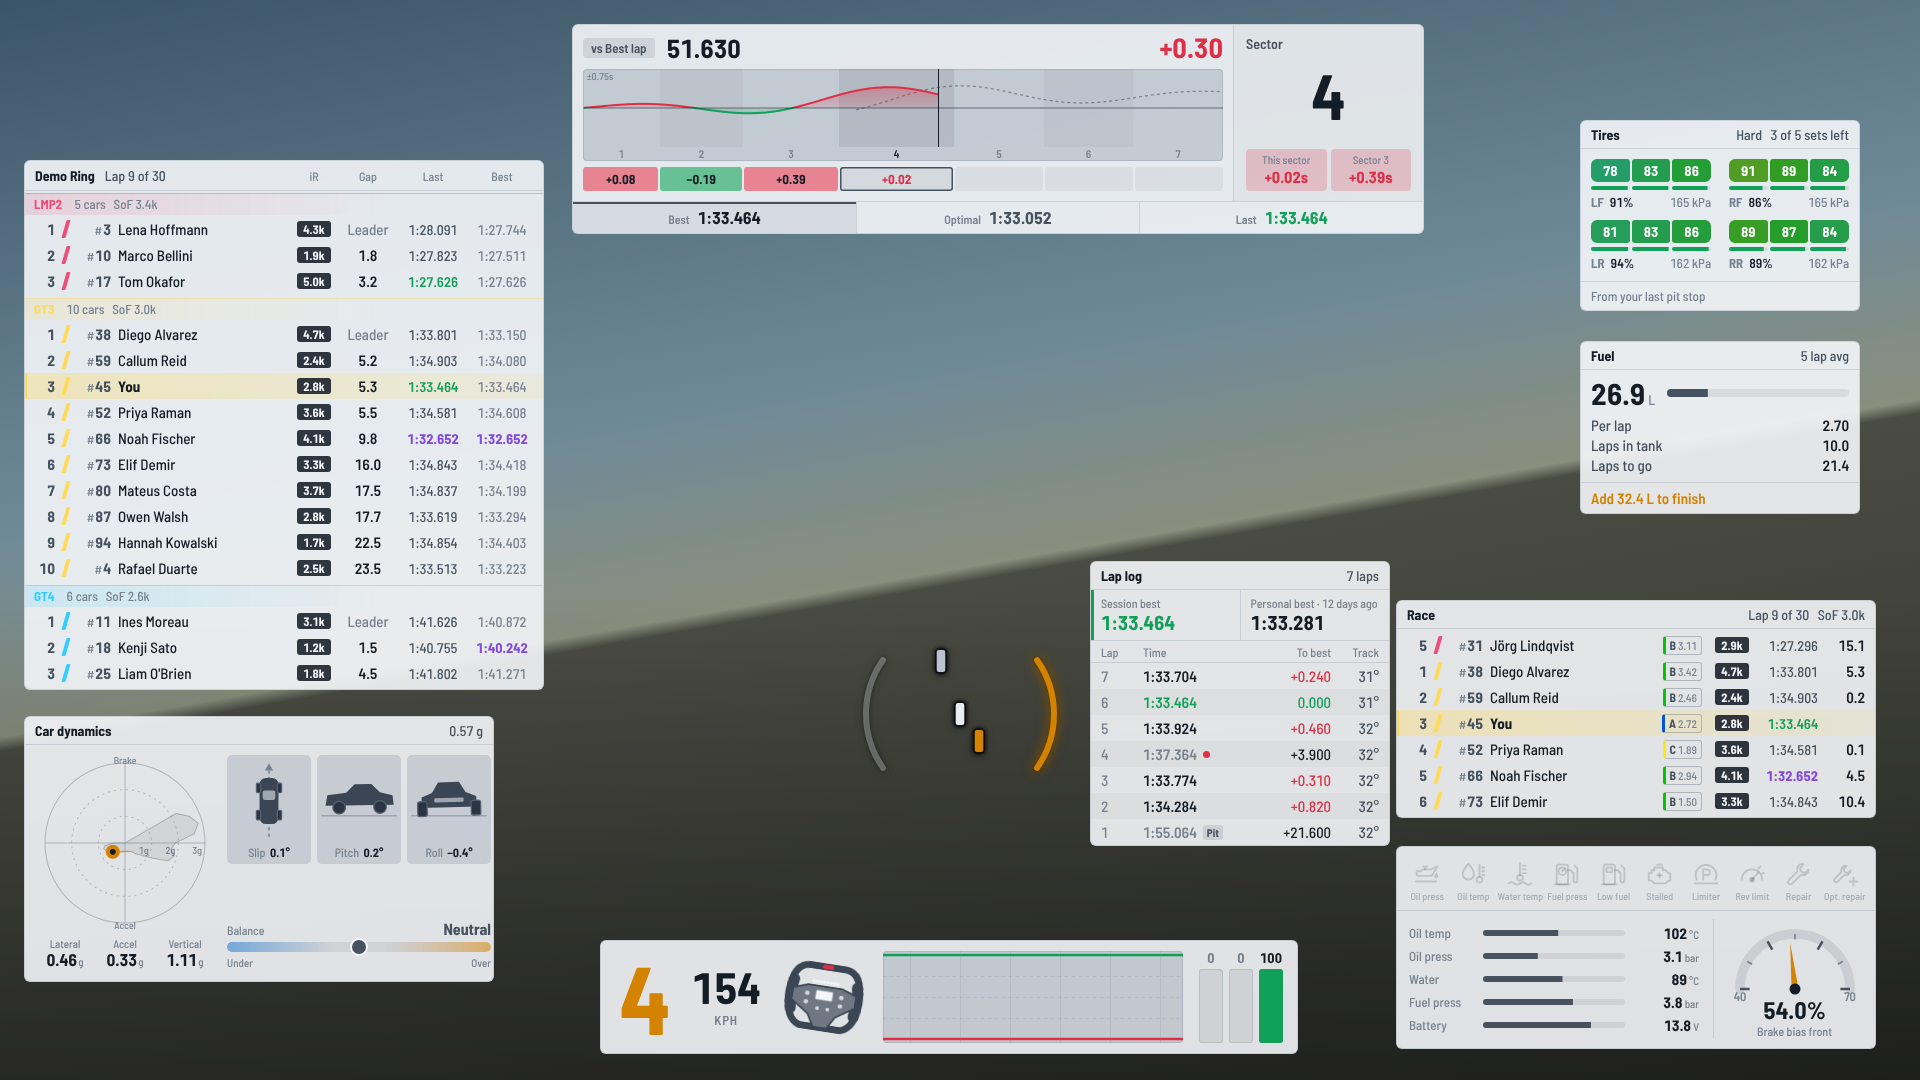
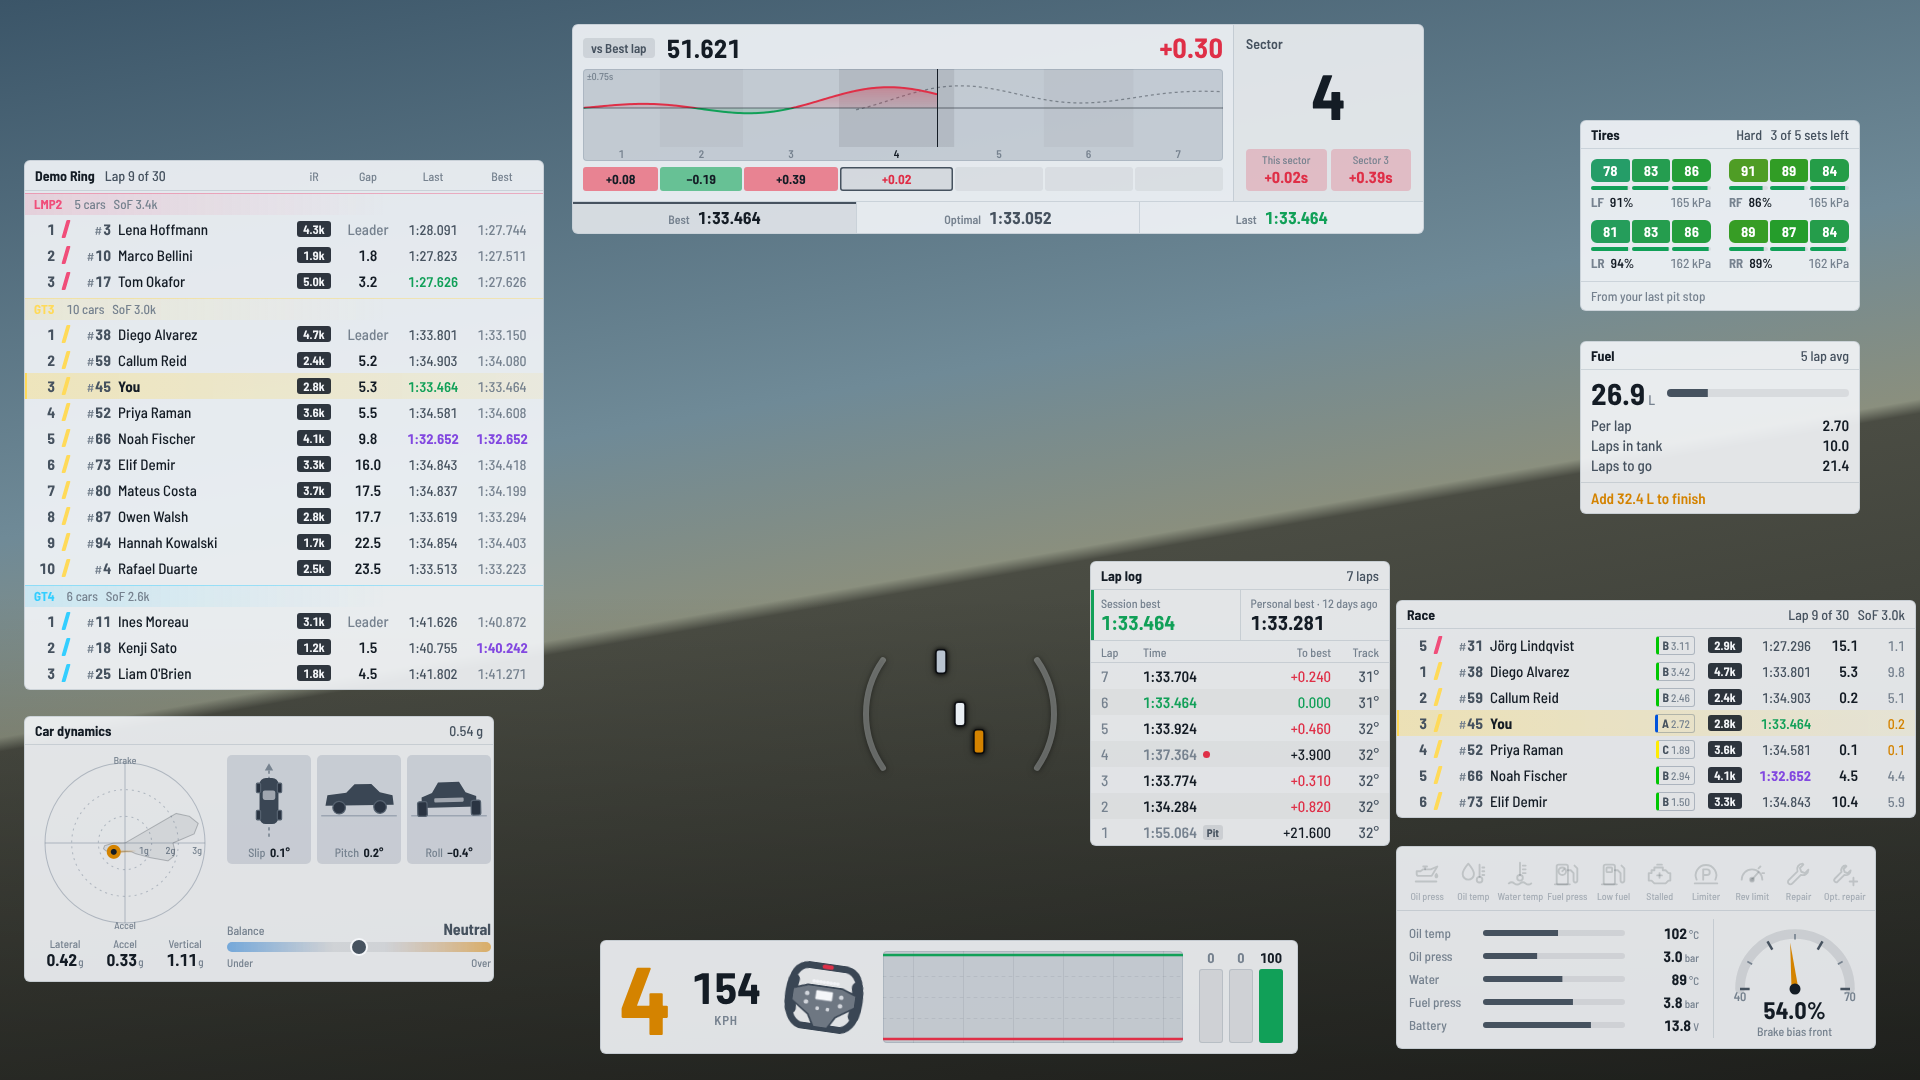
Relative: show each car's gap to the car ahead on track
A new last column gives every row's gap to the row above it (yours
included), worked out from the full list so the top visible row gets one
too. Under a second is amber, to pick out the fights around you. On by
default with a "Show gap to the car ahead" option; the panel grows 40 px
when it's on. README text and pictures updated.

Claude-Session: https://claude.ai/code/session_013hzfFXxra7Gh1adzFYjA4b

Changed region(s): [[0.8438, 0.55, 1.0, 0.7639], [0.5312, 0.6111, 0.5625, 0.7028], [0.375, 0.0306, 0.4062, 0.0611]]

diff --git a/src/widgets/Relative.tsx b/src/widgets/Relative.tsx
@@ -25,14 +25,20 @@ export function Relative({ config }: { config: WidgetConfig }) {
   const showLic = opt(config, "showLicense", true);
   const showLast = opt(config, "showLastLap", true);
   const showPit = opt(config, "showPit", true);
+  const showInterval = opt(config, "showInterval", true);
 
   const rows = (field?.relative ?? []).filter((r) => showPit || !r.onPitRoad || r.isPlayer);
   const me = rows.findIndex((r) => r.isPlayer);
+  // Each car's gap to the car directly in front of it on track (the row
+  // above), from the full list so the top visible row gets one too. Gaps are
+  // positive ahead of you, so the row above always has the bigger one.
+  const intervals = rows.map((r, i) => (i > 0 ? rows[i - 1].gap - r.gap : null));
 
   // Fixed slot count so the widget never changes height.
-  const slots: (RelativeRow | null)[] = [];
+  const slots: ({ r: RelativeRow; interval: number | null } | null)[] = [];
   for (let k = -ahead; k <= behind; k++) {
-    slots.push(me >= 0 ? rows[me + k] ?? null : null);
+    const i = me + k;
+    slots.push(me >= 0 && rows[i] ? { r: rows[i], interval: intervals[i] } : null);
   }
 
   const sof = opt(config, "showSoF", true) ? field?.clock.strengthOfField : null;
@@ -42,6 +48,7 @@ export function Relative({ config }: { config: WidgetConfig }) {
     showIR && "40px",
     showLast && "62px",
     "40px",
+    showInterval && "40px",
   ]
     .filter(Boolean)
     .join(" ");
@@ -56,9 +63,10 @@ export function Relative({ config }: { config: WidgetConfig }) {
         <Empty>Relative appears once you're in the car.</Empty>
       ) : (
         <div className="rows" style={{ "--cols": cols } as React.CSSProperties}>
-          {slots.map((r, k) =>
-            r ? (
-              <Row key={r.carIdx} r={r} showIR={showIR} showLic={showLic} showLast={showLast} multiclass={multiclass} />
+          {slots.map((s, k) =>
+            s ? (
+              <Row key={s.r.carIdx} r={s.r} interval={showInterval ? s.interval : undefined}
+                showIR={showIR} showLic={showLic} showLast={showLast} multiclass={multiclass} />
             ) : (
               <div key={`e${k}`} className="row row-empty" />
             ),
@@ -69,8 +77,14 @@ export function Relative({ config }: { config: WidgetConfig }) {
   );
 }
 
-function Row({ r, showIR, showLic, showLast, multiclass }: {
-  r: RelativeRow; showIR: boolean; showLic: boolean; showLast: boolean; multiclass: boolean;
+/** Within this many seconds of the car ahead counts as a close fight. */
+const CLOSE_S = 1.0;
+
+function Row({ r, interval, showIR, showLic, showLast, multiclass }: {
+  r: RelativeRow;
+  /** Seconds to the car in front; null for the front row; undefined when the column is off. */
+  interval: number | null | undefined;
+  showIR: boolean; showLic: boolean; showLast: boolean; multiclass: boolean;
 }) {
   const lic = license(r.license);
   const status = r.isPlayer ? "is-player" : r.lapStatus > 0 ? "is-ahead-lap" : r.lapStatus < 0 ? "is-behind-lap" : "";
@@ -92,6 +106,14 @@ function Row({ r, showIR, showLic, showLast, multiclass }: {
       {showIR && <IRatingBadge value={r.irating} />}
       {showLast && <LastLap time={r.lastLap} flag={r.lastFlag} />}
       <span className="gap">{r.isPlayer ? "" : gap(r.gap)}</span>
+      {interval !== undefined && (
+        <span
+          className={`interval ${interval != null && interval < CLOSE_S ? "is-close" : ""}`}
+          title={interval == null ? undefined : `${interval.toFixed(2)} s to the car ahead`}
+        >
+          {interval == null ? "" : gap(interval)}
+        </span>
+      )}
     </div>
   );
 }

diff --git a/src/lib/config.ts b/src/lib/config.ts
@@ -76,6 +76,7 @@ export const WIDGETS: WidgetMeta[] = [
       { key: "showLicense", label: "Show license", type: "toggle", default: true },
       { key: "showLastLap", label: "Show last lap", type: "toggle", default: true, help: "Purple for the fastest lap in class, green for a personal best" },
       { key: "showPit", label: "Show cars in the pits", type: "toggle", default: true },
+      { key: "showInterval", label: "Show gap to the car ahead", type: "toggle", default: true, help: "Each car's gap to the one in front of it on track, amber when under a second" },
       { key: "showSoF", label: "Show strength of field", type: "toggle", default: true, help: "For your class, in the header" },
     ],
   },

diff --git a/src/styles/overlay.css b/src/styles/overlay.css
@@ -538,6 +538,18 @@
 .relative {
   width: 480px;
 }
+/* The extra column widens the panel rather than squeezing the names. */
+.relative:has(.interval) {
+  width: 520px;
+}
+.interval {
+  text-align: right;
+  font-size: 14px;
+  color: var(--ink-3);
+}
+.interval.is-close {
+  color: var(--attention);
+}
 .relative .row,
 .standings .row {
   grid-template-columns: var(--cols);

diff --git a/README.md b/README.md
@@ -51,11 +51,13 @@ The cars just ahead of and behind you on track, with the time gap to each. Cars
 a lap up on you are orange, cars you're lapping are blue. Each row has the
 class color, car number, license and safety rating, iRating and last lap. A
 last lap is purple when it's the fastest in class and green when it's that
-driver's personal best. The header shows the lap count and your class's
-strength of field.
+driver's personal best. The last column is each car's gap to the car directly
+in front of it on track (yours included), amber when it's under a second, so
+you can see the fights going on around you. The header shows the lap count
+and your class's strength of field.
 
 *Options*: how many cars ahead and behind, and whether to show iRating,
-license, last lap, cars in the pits and SoF.
+license, last lap, the gap to the car ahead, cars in the pits and SoF.
 
 ### Standings
 
